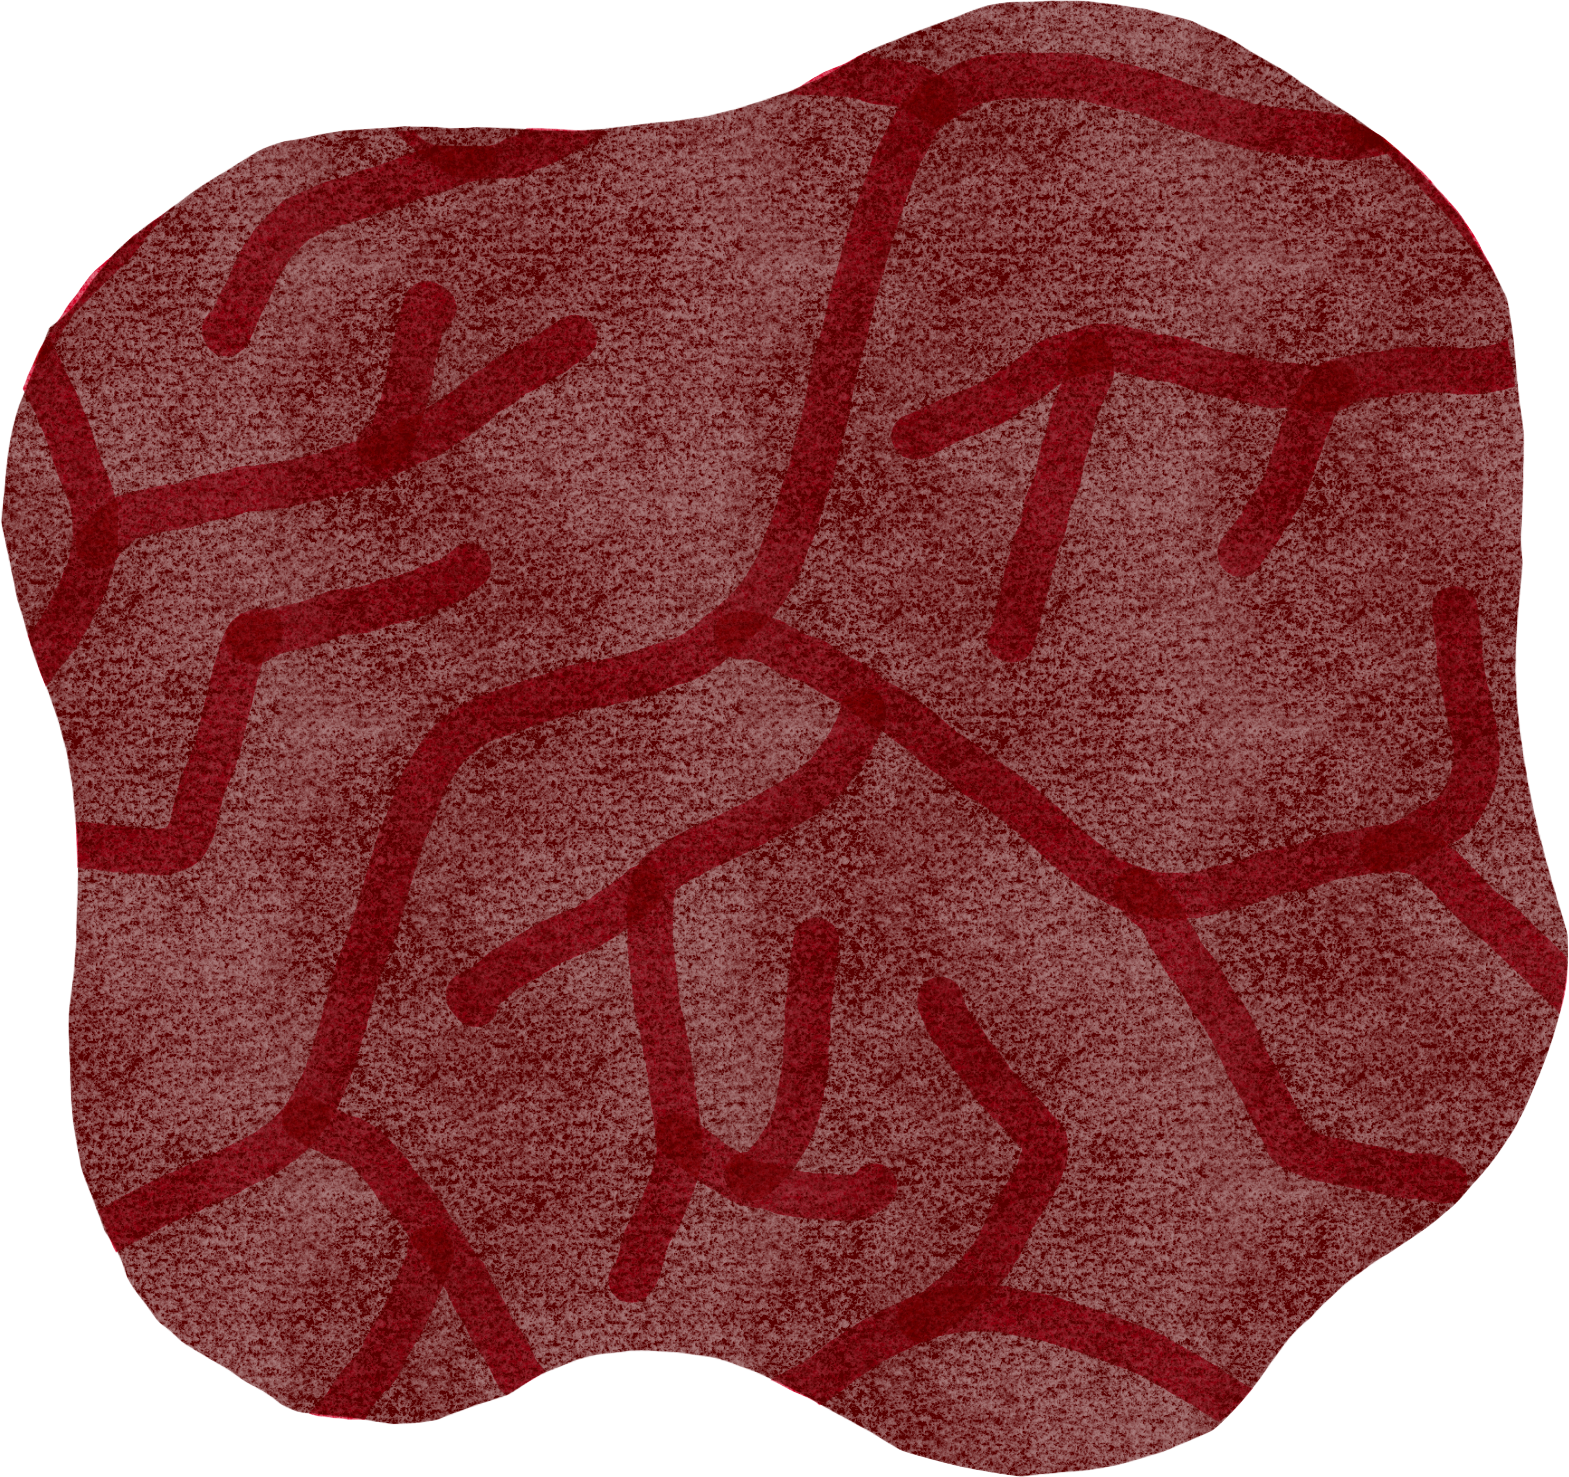
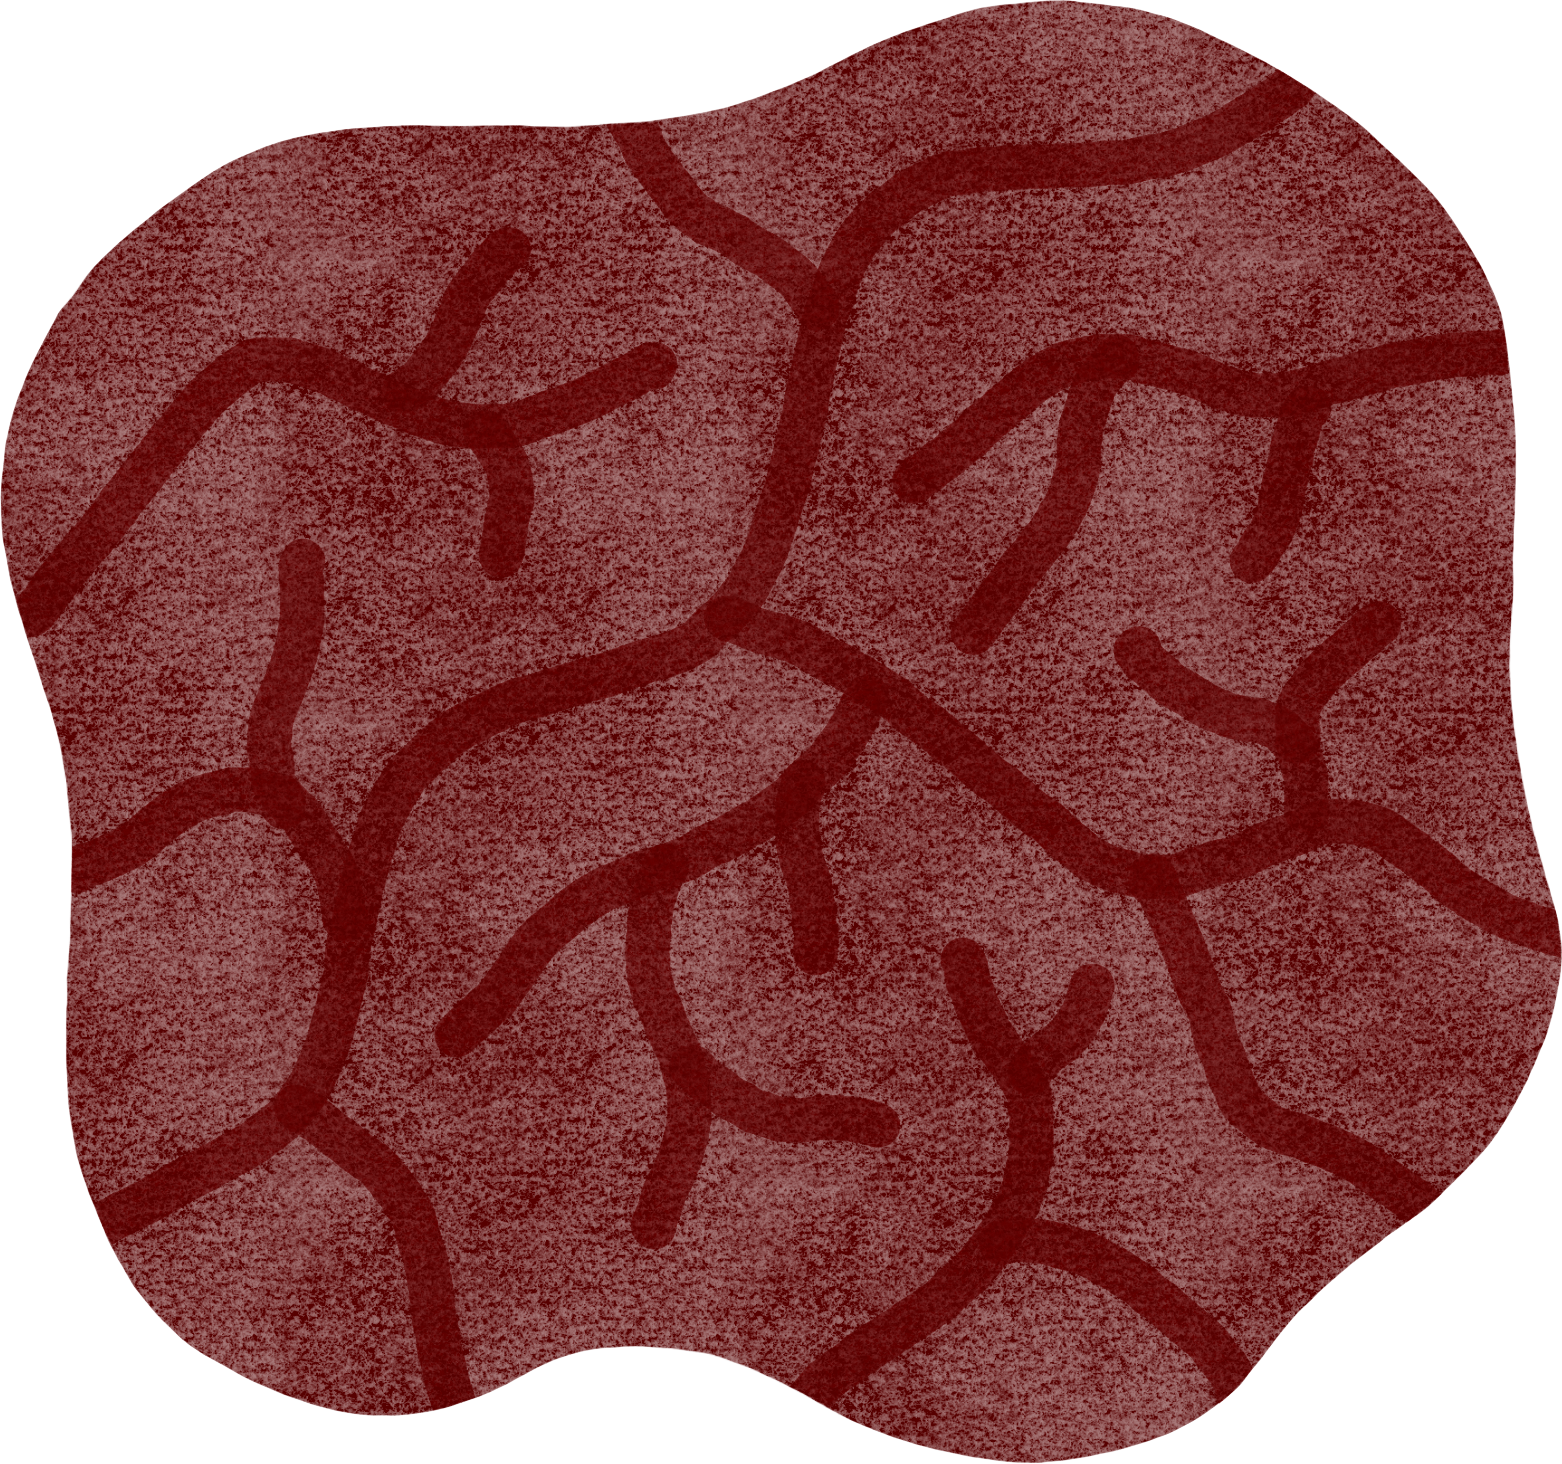
Finished istanbul

diff --git a/src/app/pages/why-does-it-run-page/sections/istanbul-section/istanbul-section.ts b/src/app/pages/why-does-it-run-page/sections/istanbul-section/istanbul-section.ts
@@ -1,0 +1,78 @@
+import {Component} from '@angular/core';
+import {TextView} from '../../../../components/text-view/text-view';
+import {ImageView} from '../../../../components/image-view/image-view';
+import {TextContentPipe} from '../../../../pipes/text-content-pipe';
+import {gsap} from 'gsap';
+import {ScrollTrigger} from 'gsap/ScrollTrigger';
+
+gsap.registerPlugin(ScrollTrigger)
+
+@Component({
+  selector: 'bb-istanbul-section',
+  imports: [
+    TextView,
+    ImageView,
+    TextContentPipe
+  ],
+  templateUrl: './istanbul-section.html',
+  styleUrl: './istanbul-section.scss',
+})
+export class IstanbulSection {
+
+  currentIndex = 0
+
+  protected imageLoaded() {
+    const frame1 = document.getElementById("istanbul-top-frame-1")
+    const frame2 = document.getElementById("istanbul-top-frame-2")
+
+    ScrollTrigger.create({
+      trigger: "#istanbul-top-animation-container",
+      start: "top 33%",
+      end: "top 33%",
+      onEnter: () => {
+        frame1!.style.opacity = '0'
+        frame2!.style.opacity = '1'
+      },
+      onLeaveBack: () => {
+        frame1!.style.opacity = '1'
+        frame2!.style.opacity = '0'
+      }
+    })
+
+    const frames = [1, 2, 3, 4].map(n => document.getElementById("istanbul-bottom-frame-" + n))
+
+    ScrollTrigger.create({
+      trigger: "#istanbul-bottom-animation-container",
+      start: "top 66%",
+      end: "top -10%",
+      markers: true,
+      onUpdate: self => {
+        const imageIndex = Math.min(frames.length - 1, Math.floor(self.progress * frames.length))
+        if (imageIndex != this.currentIndex) {
+          this.currentIndex = imageIndex
+          frames.forEach((frame, index) => {
+            frame!.style.opacity = (index === this.currentIndex) ? '1' : '0'
+          })
+        }
+      }
+    })
+
+    ScrollTrigger.create({
+      trigger: "#istanbul-transition-container",
+      start: "top 80%",
+      end: "top 1px",
+      onEnter: () => gsap.set("#istanbul-transition-container", {opacity: 1}),
+      onLeave: () => gsap.set("#istanbul-transition-container", {opacity: 0}),
+      onEnterBack: () => gsap.set("#istanbul-transition-container", {opacity: 1}),
+      onLeaveBack: () => gsap.set("#istanbul-transition-container", {opacity: 0}),
+      onUpdate: self => {
+        if (self.progress > 0.2 && self.progress < 0.8) {
+          gsap.to("#istanbul-transition-text", {opacity: 1})
+        } else {
+          gsap.to("#istanbul-transition-text", {opacity: 0})
+        }
+      }
+    })
+  }
+
+}

diff --git a/src/app/pages/why-does-it-run-page/sections/istanbul-section/istanbul-section.html b/src/app/pages/why-does-it-run-page/sections/istanbul-section/istanbul-section.html
@@ -1,0 +1,29 @@
+<div class="w-full aspect-[1/1.12] flex items-center relative">
+  <bb-image-view class="absolute right-[7vw]" src="/istanbul/D8.png" alt="" width="60vw"/>
+</div>
+
+<div id="istanbul-top-animation-container" class="w-full aspect-video relative flex items-center">
+  <bb-text-view class="absolute left-[50vw]" size="text">{{ 'istanbul.info-text-1' | textContent }}</bb-text-view>
+  <bb-image-view id="istanbul-top-frame-1" class="absolute left-[7vw]" src="/istanbul/D9.png" alt="" width="35vw"/>
+  <bb-image-view (imageLoadedEvent)="imageLoaded()" id="istanbul-top-frame-2"
+                 class="absolute left-[7vw] opacity-0" src="/istanbul/D10.png" alt="" width="35vw"/>
+</div>
+
+<div class="w-full h-screen min-h-[56.25vw]">
+  <div id="istanbul-bottom-animation-container" class="w-full aspect-video relative flex items-center">
+    <bb-text-view class="absolute left-[50vw]" size="text">{{ 'istanbul.info-text-2' | textContent }}</bb-text-view>
+    <bb-image-view id="istanbul-bottom-frame-1" class="absolute left-[5vw]" src="/istanbul/D11.png" alt="" width="40vw"/>
+    <bb-image-view id="istanbul-bottom-frame-2" class="absolute left-[5vw] opacity-0" src="/istanbul/D12.png" alt="" width="40vw"/>
+    <bb-image-view id="istanbul-bottom-frame-3" class="absolute left-[5vw] opacity-0" src="/istanbul/D13.png" alt="" width="40vw"/>
+    <bb-image-view id="istanbul-bottom-frame-4" class="absolute left-[5vw] opacity-0" src="/istanbul/D14.png" alt="" width="40vw"/>
+  </div>
+</div>
+
+<div id="istanbul-transition-container" class="relative opacity-0 transition-opacity z-10">
+  <div class="h-fit w-full absolute transition-opacity flex items-center justify-center">
+    <bb-image-view class="fixed inset-0 bg-bb-ivory" src="/red_background.png"
+                   alt="" width="100%" height="100vh"/>
+    <bb-text-view id="istanbul-transition-text" class="z-20 opacity-0"
+                  color="bb-ivory">Ich merke das glücklicherweise nicht.</bb-text-view>
+  </div>
+</div>

diff --git a/src/app/pages/why-does-it-run-page/why-does-it-run-page.ts b/src/app/pages/why-does-it-run-page/why-does-it-run-page.ts
@@ -1,12 +1,14 @@
 import { Component } from '@angular/core';
 import {AlexandriaSection} from './sections/alexandria-section/alexandria-section';
 import {DonetskSection} from './sections/donetsk-section/donetsk-section';
+import {IstanbulSection} from './sections/istanbul-section/istanbul-section';
 
 @Component({
   selector: 'bb-why-does-it-run-page',
   imports: [
     AlexandriaSection,
-    DonetskSection
+    DonetskSection,
+    IstanbulSection
   ],
   templateUrl: './why-does-it-run-page.html',
   styleUrl: './why-does-it-run-page.scss',

diff --git a/src/app/pages/why-does-it-run-page/sections/donetsk-section/donetsk-section.ts b/src/app/pages/why-does-it-run-page/sections/donetsk-section/donetsk-section.ts
@@ -3,6 +3,9 @@ import {ImageView} from '../../../../components/image-view/image-view';
 import {ScrollTrigger} from 'gsap/ScrollTrigger';
 import {TextView} from '../../../../components/text-view/text-view';
 import {TextContentPipe} from '../../../../pipes/text-content-pipe';
+import {gsap} from 'gsap';
+
+gsap.registerPlugin(ScrollTrigger)
 
 @Component({
   selector: 'bb-donetsk-section',

diff --git a/src/app/pages/why-does-it-run-page/sections/donetsk-section/donetsk-section.html b/src/app/pages/why-does-it-run-page/sections/donetsk-section/donetsk-section.html
@@ -4,6 +4,8 @@
 
 <div class="w-full h-screen relative">
   <div class="w-fit sticky left-[15vw] top-[30vh]">
+
+    <!-- TODO doesnt go away on ipad -->
     <bb-image-view id="donetsk-frame-1-1" class="transition-all" src="/donetsk/D4.png" alt="" width="3.1vw"/>
   </div>
 </div>

diff --git a/src/app/pages/why-does-it-run-page/sections/alexandria-section/alexandria-section.ts b/src/app/pages/why-does-it-run-page/sections/alexandria-section/alexandria-section.ts
@@ -5,6 +5,8 @@ import {TextContentPipe} from '../../../../pipes/text-content-pipe';
 import {ScrollTrigger} from 'gsap/ScrollTrigger';
 import {gsap} from 'gsap';
 
+gsap.registerPlugin(ScrollTrigger)
+
 @Component({
   selector: 'bb-alexandria-section',
   imports: [

diff --git a/src/app/pages/why-does-it-run-page/why-does-it-run-page.html b/src/app/pages/why-does-it-run-page/why-does-it-run-page.html
@@ -1,4 +1,5 @@
 <div class="w-full min-h-screen">
   <bb-alexandria-section></bb-alexandria-section>
   <bb-donetsk-section></bb-donetsk-section>
+  <bb-istanbul-section></bb-istanbul-section>
 </div>
